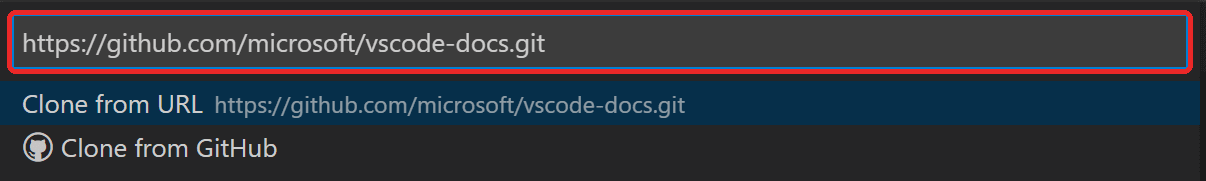
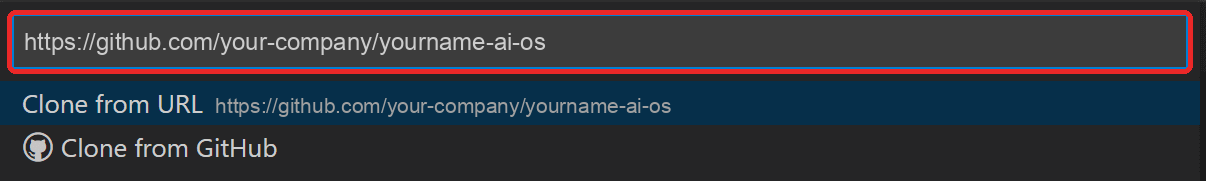
Start here: setup from zero, computer and phone
Claude-Session: https://claude.ai/code/session_01LZXVLAxoyUTAE3TGVdLiCg

Changed region(s): [[0.0, 0.1657, 0.4602, 0.3315], [0.1534, 0.5249, 0.5829, 0.663]]

diff --git a/guides/START-HERE.md b/guides/START-HERE.md
@@ -95,7 +95,7 @@ Go to **code.visualstudio.com** and click **Download**.
 
    ![Source Control, then Clone Repository](images/vscode-clone.png)
 
-2. Paste the link in the box at the top, press Enter, and pick **Documents** as the place to save it.
+2. Paste **your copy's link** (the one you copied in step 4 above) in the box at the top, press Enter, and pick **Documents** as the place to save it.
 
    ![Paste the link and press Enter](images/vscode-paste-link.png)
 
@@ -168,4 +168,4 @@ Approve these once and every new person just follows this guide:
 
 ---
 
-VS Code screenshots are from the [VS Code documentation](https://github.com/microsoft/vscode-docs), © Microsoft, used under CC BY 3.0. Red marks added.
+VS Code screenshots are from the [VS Code documentation](https://github.com/microsoft/vscode-docs), © Microsoft, used under CC BY 3.0. Red marks and example links added.
